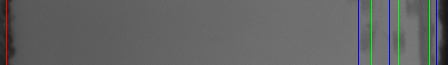
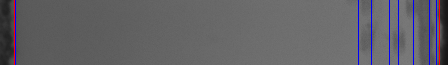
Walls, clusters, and cluster bounds are now identified lines are placed on opencv and markers on pyplot Removed manual functions: select_zone() and highlight()

Changed region(s): [[0.0312, 0.0, 0.0625, 1.0]]

diff --git a/linedetector.py b/linedetector.py
@@ -4,14 +4,13 @@ import logging
 import os
 import sys
 from tkinter import filedialog
+from typing import Any
 
 import cv2
 import matplotlib.pyplot as plt
 import numpy as np
 
 OUTPUT_MODE: int = 0            # TODO: Output mode identifies if we are using control system
-TRIM_FILTER: bool = False        # Do we want to trim the image outside of focus?
-THRESH_FILTER: bool = False      # Do we want to highlight values above a threshold?
 
 class LineDetector:
     """
@@ -45,22 +44,27 @@ class LineDetector:
         self.stop: int = len(img[0])#-12
 
         # This will contain a list of peaks and valleys
-        self.cluster_list = []
+        self.cluster_bounds: list[Any] = []
+        self.cluster_marks: list[Any] = []
+        self.wall_marks: list[Any] = []
 
         # Blur, then Compress the image into a 1D array of values, then scale to emphasize differences
         blur = cv2.GaussianBlur(img, (15, 5), 0)
         avg_img = self.compress_columns(blur)
         color = cv2.cvtColor(img, cv2.COLOR_GRAY2BGR)
-        print(self.cluster_list)
-        mk = np.zeros((len(avg_img)), np.uint8)
-        for i, val, climb in self.cluster_list:
-            plt.plot(i, val, "og")
-            if val < 127:
-                color[:,i] = (0,0,255)
-            elif climb > 0:
-                color[:,i] = (255,0,0)
-            else:
-                color[:,i] = (0,255,0)
+        logging.info("Wall Marks: " + str(self.wall_marks))
+        logging.info("Cluster Marks: " + str(self.cluster_marks))
+        logging.info("Cluster Bounds: " + str(self.cluster_bounds))
+        for i, val, climb in self.cluster_marks:
+            plt.plot(i, val, "vg")
+            color[:,i] = (0,255,0)
+        for i, val, climb in self.cluster_bounds:
+            plt.plot(i, val, "Xb")
+            color[:,i] = (255,0,0)
+        for i, val, climb in self.wall_marks:
+            plt.plot(i, val, "Xr")
+            color[:,i] = (0,0,255)
+
         cv2.imshow("marked", color)
         cv2.imwrite(f"{filename}_colored.png", color)
 
@@ -68,7 +72,7 @@ class LineDetector:
         tick_int: int = (self.stop-self.start) // 12
         columns = range(self.start, self.stop)
         column_label = range(self.start, self.stop, tick_int)
-        values = range(0, 256, 16)
+        values = range(0, 257, 16)
         plt.plot(columns, avg_img, label="Average")
 
         # Format the Plot and either show or save to PNG
@@ -88,6 +92,8 @@ class LineDetector:
 
         # Shut down OpenCV Windows and Pyplot
         # cv2.waitKey()
+        haze = np.average(avg_img)
+        logging.info("Haze: %f", haze)
         plt.close()
         cv2.destroyAllWindows()
 
@@ -98,9 +104,6 @@ class LineDetector:
                 - the average of all values in each column
                 - the minumum of all values in each column
         """
-        if TRIM_FILTER:
-            self.start, self.stop = self.select_zone(img)
-
         avg_col = np.zeros((self.stop-self.start), np.uint8)
         for x in range(len(avg_col)):
             avg_col[x] = np.average(img[:,x])
@@ -110,64 +113,6 @@ class LineDetector:
 
         return avg_col
 
-    def select_zone(self, img) -> tuple[int, int]:
-        """
-        """
-        first_bar = True
-        num_cols = len(img[0])
-        start: int = 350
-        stop: int = num_cols-10
-
-        # Display usage instructions in terminal
-        logging.info("How to use Trimmer:")
-        logging.info("\t- 'esc' - skips the current video")
-        logging.info("\t- 'enter' - accepts the current settings")
-        logging.info("\t- 'left' - moves back 10 columns")
-        logging.info("\t- 'right' - moves forward 10 columns")
-        logging.info("\t- '1' - Select the Starting column")
-        logging.info("\t- '2' - Select the Stopping column")
-
-        # Loop until the user confirms the threshold value from the previews
-        while True:
-            # Draw lines on image
-            color = cv2.cvtColor(img, cv2.COLOR_GRAY2BGR)
-            color[:,start] = (0,255,0)
-            color[:,stop] = (0,0,255)
-
-            # Show preview
-            cv2.imshow("markers", color)
-
-            # Use arrow keys to adjust threshold, up/down are fine tuning, left/right are bigger
-            Key = cv2.waitKeyEx()
-            if Key == 2424832:          # Left arrow, move bar left
-                if first_bar:
-                    start -= 10
-                elif stop > start+10:
-                    stop -= 10
-            elif Key == 2555904:        # Right arrow, move bar right
-                if not first_bar:
-                    stop += 10
-                elif start < stop-10:
-                    start += 10
-            elif Key == 49:        # 1 Key
-                first_bar: bool = True
-                logging.info("Now changing the Starting point...")
-            elif Key == 50:        # 2 Key
-                first_bar: bool = False
-                logging.info("Now changing the Stopping point...")
-            elif Key == 13:             # Enter Key, accept current settings
-                return start, stop
-            elif Key == 27:             # Escape Key
-                logging.info("Skipping video...")
-                return 0, num_cols-10
-            else:
-                logging.warning("Invalid Key: %d", Key)
-
-            # Enforce bounds and debug
-            if stop >= num_cols:
-                stop = num_cols-1
-            if start < 0:
-                start = 0
 
     def linear_reframe(self, img):
         """ Using a 1D array, it will readjust the value scale to make differences more noticable
@@ -184,67 +129,10 @@ class LineDetector:
         rec_img = np.clip(img, b_p, w_p) - b_p
         rec_img = (rec_img / scale).astype(np.uint8)
 
-        # If we want to manually filter out certain values, this will prompt us
-        if THRESH_FILTER:
-            rec_img = self.highlight(rec_img)
-
-        self.cluster_list = self.mountain_climber(rec_img)
+        self.mountain_climber(rec_img)
 
         return rec_img
 
-    def highlight(self, img):
-        """ Attempts to flatten out peaks and trim noise
-
-            FIXME: This should be treated per peak, not on the image as a whole
-        """
-        # Display usage instructions in terminal
-        logging.info("How to use Highlighter:")
-        logging.info("\t- 'esc' - skips the current video")
-        logging.info("\t- 'enter' - accepts the current settings")
-        logging.info("\t- 'up' - increases the threshold")
-        logging.info("\t- 'down' - decreases the threshold")
-
-        # TODO: make thresh automatic
-        thresh: int = 255
-
-        # Loop until the user confirms the threshold value from the previews
-        while True:
-            mkd_img = np.copy(img)
-
-            # Cut noise to floor
-            # for x in range(len(mkd_img)):
-            #     if mkd_img[x] > thresh:
-            #         mkd_img[x] = 0
-            #     else:
-            #         mkd_img[x] = 255
-
-
-            # Convert the 1D array into a 2D image and display it
-            img_2d = np.stack([img for _ in range(100)], axis=0)
-            mkd_img_2d = np.stack([mkd_img for _ in range(100)], axis=0)
-            cv2.imshow("original", img_2d)
-            cv2.imshow("averaged", mkd_img_2d)
-
-            # Use arrow keys to adjust threshold, up/down are fine tuning, left/right are bigger
-            Key = cv2.waitKeyEx()
-            if Key == 2621440:          # Down arrow
-                if thresh > 0:      # Enforce min bounds
-                    thresh -= 1
-                logging.info("Threshold = %d", thresh)
-            elif Key == 2490368:        # Up arrow
-                if thresh < 255:    # Enforce max bounds
-                    thresh += 1
-                logging.info("Threshold = %d", thresh)
-            elif Key == 13:             # Enter key, accept current settings
-                logging.info("Threshold value set to %d...", thresh)
-                return mkd_img
-            elif Key == 27:
-                logging.info("Skipping Image Highlight...")
-                return img
-            elif Key == -1:
-                pass
-            else:
-                logging.warning("Invalid Key: %d", Key)
 
     def mountain_climber(self, avg_img, minClimb: int = 0):
         """
@@ -257,61 +145,67 @@ class LineDetector:
                 return -1
             return 1
 
-        # recent_Valley: int = avg_img[0]
-        # recent_Peak: int = avg_img[0]
-        # recent_Direction: int = 0
-        # lastValley: int = avg_img[0]
-
-        # wall_thresh: int = 128
-
-        # wall_loc1: int = -1
-        # wall_loc2: int = -1
-
-        # for col, val in enumerate(avg_img):
-        #     recent
-
-        #     if val >= wall_thresh:
-        #         if 
-
-        # StackOverflow     # init trackers
+        # init trackers
         last_valley: int = int(avg_img[0])
         last_peak: int = int(avg_img[0])
         last_val: int = int(avg_img[0])
-        last_dir: int = getDirection(int(avg_img[0]), int(avg_img[1]))
+        last_dir: int = 0
 
-        # get climbing
-        peak_valley = [] # index, height, climb (positive for peaks, negative for valleys)
-        for a in range(1, len(avg_img)):
-            # get current direction
-            sign = getDirection(last_val, int(avg_img[a]))
-            last_val = int(avg_img[a])
+        # get climbing (each element should contain [index, height, climb])
+        cluster_bounds: list[Any] = []     # Should outline the cluster of cells
+        cluster_marks: list[Any] = []      # Should line up on center of cluster
+        wall_marks: list[Any] = []         # Bounding walls of channel (not cells)
+        for a in range(1, len(avg_img)-1):
+            # get current values
+            cur_val: int = int(avg_img[a])
+            cur_dir: int = getDirection(last_val, cur_val)
+            next_val: int = int(avg_img[a+1])
+            next_dir: int = getDirection(cur_val, next_val)
 
-            # if not equal, check gradient
-            if sign != 0:
-                if sign != last_dir:
-                    # change in gradient, record peak or valley
-                    # peak
-                    if last_dir > 0:
-                        last_peak = int(avg_img[a])
-                        climb = last_peak - last_valley
-                        climb = round(climb, 2)
-                        peak_valley.append([a, int(avg_img[a]), climb])
-                    else:
-                        # valley
-                        last_valley = int(avg_img[a])
-                        climb = last_valley - last_peak
-                        climb = round(climb, 2)
-                        peak_valley.append([a, int(avg_img[a]), climb])
+            
+            if cur_val > 127:           # Filter out left wall
+                if next_val < 127:      # Right Wall
+                    logging.info("Found right wall at: %d", a)
+                    wall_marks.append([a, cur_val, 127])
 
-                    # change direction
-                    last_dir = sign
+                # if cur_dir == 0:
+                #     if (last_dir <= 0 and cur_dir == 1) or (last_dir == -1 and next_dir >= 0):
+                #         cluster_marks.append([a, cur_val, 0])
+                # if not equal, check gradient
+                if cur_dir != 0:
+                    if cur_dir != last_dir:
+                        # change in gradient, record peak or valley
+                        if last_dir > 0:
+                            # peak
+                            logging.info("Found peak at: %d", a)
+                            last_peak = cur_val
+                            climb = last_peak - last_valley
+                            climb = round(climb, 2)
+                            cluster_marks.append([a, cur_val, climb])
+                        else:
+                            # valley
+                            logging.info("Found valley at: %d", a)
+                            last_valley = cur_val
+                            climb = last_valley - last_peak
+                            climb = round(climb, 2)
+                            cluster_bounds.append([a, cur_val, climb])
+                    last_dir = cur_dir
+
+                # Prepare for next iteration
+                last_val = cur_val
+            elif next_val > 127:
+                logging.info("Found left wall at: %d", a)
+                wall_marks.append([a, cur_val, 127])
 
         # filter out very small climbs
-        filtered_pv = []
-        for dot in peak_valley:
-            if abs(dot[2]) > minClimb:
-                filtered_pv.append(dot)
-        return filtered_pv
+        # filtered_pv = []
+        # for dot in cluster_marks:
+        #     if abs(dot[2]) > minClimb:
+        #         filtered_pv.append(dot)
+
+        self.cluster_bounds = cluster_bounds
+        self.cluster_marks = cluster_marks
+        self.wall_marks = wall_marks
 
 
 if __name__ == "__main__":
